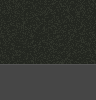
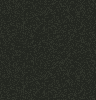
Made the menu use CSS instead of an image

diff --git a/trunk/mintypublish/themes/default/css/screen.css b/trunk/mintypublish/themes/default/css/screen.css
@@ -42,15 +42,21 @@ td
 	text-align:left;
 }
 
-#header, #content
+#content
 {
-	width:1024px;
 	margin:0px auto;
+	width:1024px;
 }
 
 #header
 {
 	color:#fff;
+}
+
+#header #title
+{
+	margin:0px auto;
+	width:1024px;
 }
 
 #header h1
@@ -62,14 +68,17 @@ td
 
 #menu_wrapper
 {
+	background:#464646;
 	color:#fff;
+	border-top:1px solid #545454;
 	padding-top:10px;
 	height:26px;
 }
 
 #menu_wrapper nav
 {
-	float:left;
+	margin:0px auto;
+	width:1024px;
 }
 
 #menu_wrapper nav ul
